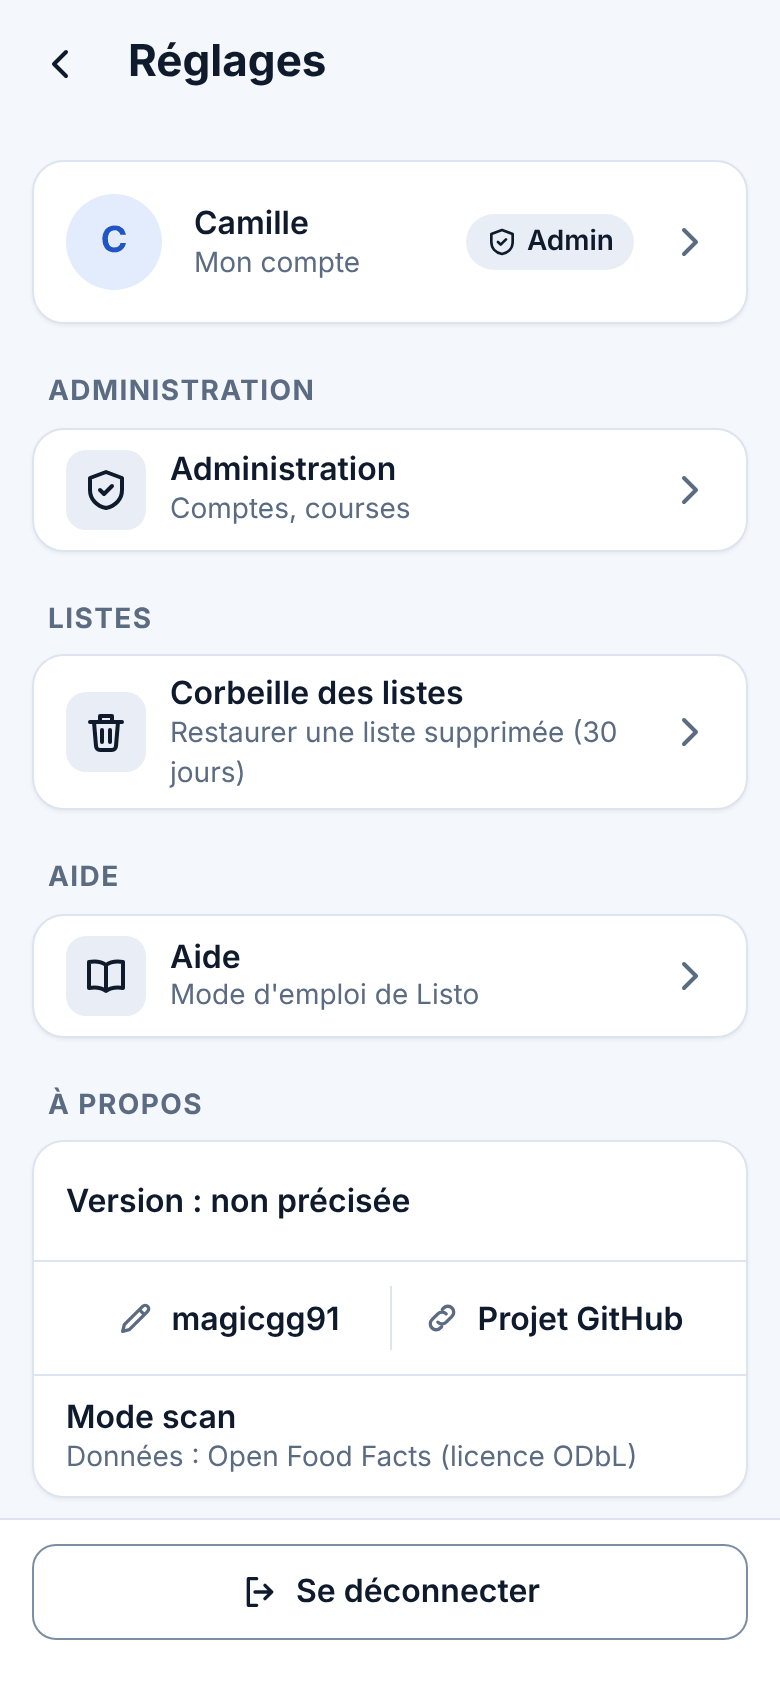
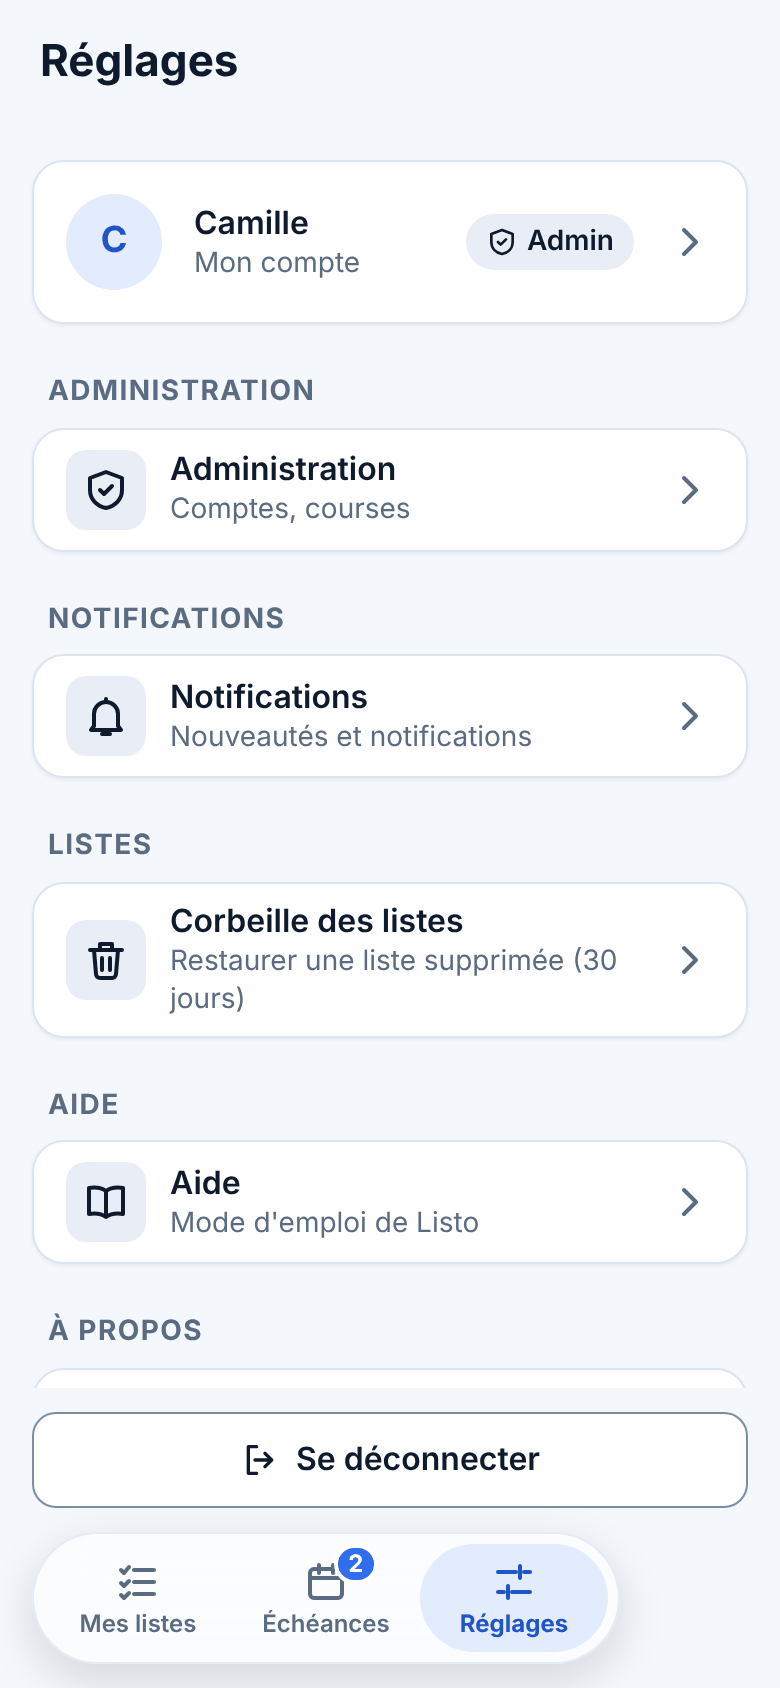
Captures du README refaites avec la navigation du bas, et « Échéances »
- les neuf captures refaites (instance jetable, données inventées,
  390 × 844 à l'échelle 2, thème clair, 256 couleurs, sans métadonnées)
- une dixième : l'écran « Échéances »
- README : tableau sur deux rangées de cinq

Claude-Session: https://claude.ai/code/session_01RoZ4edsPjQcz3aEDFj3cbP

diff --git a/README.md b/README.md
@@ -15,13 +15,11 @@
 
 ## En images
 
-| ![« Mes listes » : quatre listes, chacune avec son icône et le compteur des restants](docs/images/accueil.png) | ![Liste de courses classée par rayon, avec quantités et photo](docs/images/liste-courses.png) | ![Articles cochés, barrés, regroupés en bas dans « Dans le panier »](docs/images/liste-courses-cochee.png) |
-| :---: | :---: | :---: |
-| Mes listes | Courses classées par rayon | « Dans le panier » |
-| ![Liste de tâches avec priorité et échéance](docs/images/liste-taches.png) | ![Liste d'envies vue par la personne qui offre : prix, priorité, réservation, cotisation](docs/images/liste-envies.png) | ![Mode scan : le produit trouvé à partir de son code-barres](docs/images/mode-scan.png) |
-| Tâches : priorité, échéance | Envies : réservation, cotisation | Mode scan |
-| ![Page publique d'une liste, en lecture seule, ouverte sans compte](docs/images/page-publique.png) | ![Écran « Connexions Claude » : adresse à saisir et connexion autorisée](docs/images/connexions-claude.png) | ![Écran Réglages](docs/images/reglages.png) |
-| Lien public, sans compte | « Connexions Claude » | Réglages |
+| ![« Mes listes » : filtre des types, quatre listes avec leur icône et le compteur des restants, bandeau du bas](docs/images/accueil.png) | ![Liste de courses classée par rayon, avec quantités et photo](docs/images/liste-courses.png) | ![Articles cochés, barrés, regroupés en bas dans « Dans le panier »](docs/images/liste-courses-cochee.png) | ![Liste de tâches avec priorité et échéance](docs/images/liste-taches.png) | ![« Échéances » : les tâches à faire de toutes les listes, en retard, aujourd'hui, demain, cette semaine, plus tard](docs/images/echeances.png) |
+| :---: | :---: | :---: | :---: | :---: |
+| Mes listes | Courses par rayon | « Dans le panier » | Tâches | « Échéances » |
+| ![Liste d'envies vue par la personne qui offre : prix, priorité, réservation, cotisation](docs/images/liste-envies.png) | ![Mode scan : le produit trouvé à partir de son code-barres](docs/images/mode-scan.png) | ![Page publique d'une liste, en lecture seule, ouverte sans compte](docs/images/page-publique.png) | ![Écran « Connexions Claude » : adresse à saisir et connexion autorisée](docs/images/connexions-claude.png) | ![Écran Réglages](docs/images/reglages.png) |
+| Envies, réservations | Mode scan | Lien public | « Connexions Claude » | Réglages |
 
 *Instance de démonstration, données inventées.*
 
